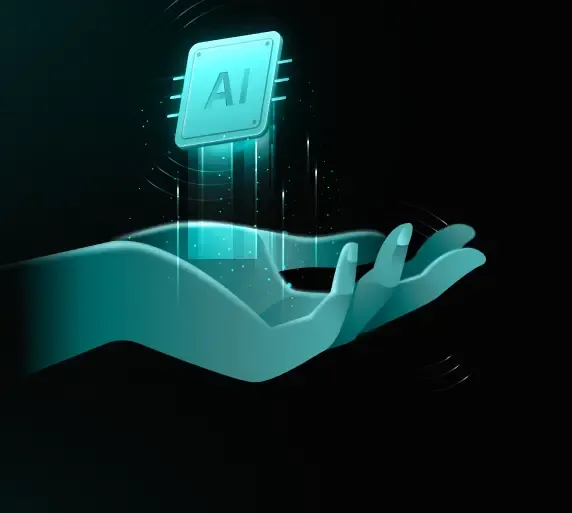
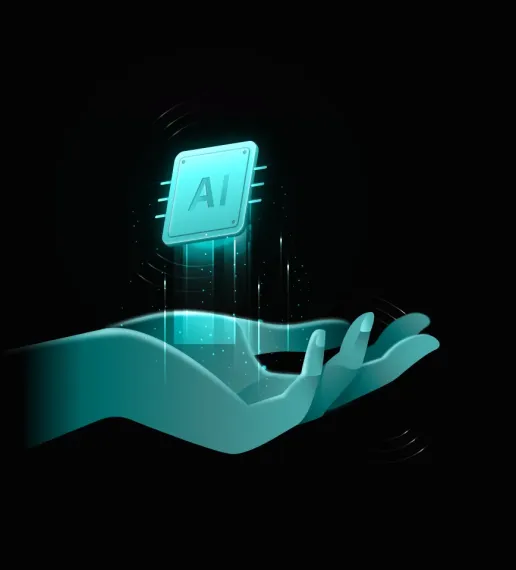
update

Changed region(s): [[0.031, 0.0, 0.8682, 0.8109], [0.0, 0.0, 0.155, 0.1559], [0.4031, 0.655, 0.4341, 0.6862]]

diff --git a/src/components/Token.jsx b/src/components/Token.jsx
@@ -9,13 +9,13 @@ const Token = () => {
             <img className='absolute z-0 left-0 top-[-55%]' src={ellipis1} alt="ellipis" />
             <img className='absolute z-0 right-0 top-[-20%]' src={ellipis2} alt="ellipis" />
             <img className='absolute z-0 top-[-10%] right-0' src={ellipis3} alt="ellipis" />
-            <div className="max-w-[1240px] relative z-[1] mx-auto px-3" id="token">
-                <h2 className='text-[#02CDCF] ff-recharge font-bold leading-[25px] sm:leading-[50px] text-center sm:text-[30px] text-[20px] md:text-[40px] pb-[25px] sm:pb-[47px]'>NexAI Token & utility</h2>
+            <div className="max-w-[1240px]  mx-auto px-3" id="token">
+                <h2 className='text-[#02CDCF] relative z-[1] ff-recharge font-bold leading-[25px] sm:leading-[50px] text-center sm:text-[30px] text-[20px] md:text-[40px] pb-[25px] sm:pb-[47px]'>NexAI Token & utility</h2>
                 <div className="flex flex-row flex-wrap justify-between -mx-3">
                     <div className="md:w-6/12 w-full flex items-center justify-center md:max-w-[571px] px-3">
-                        <img className='w-full relative z-0' data-aos="fade-right" src={hand} alt="hand" />
+                        <img className='w-full' data-aos="fade-right" src={hand} alt="hand" />
                     </div>
-                    <div className="md:w-6/12  w-full sm:max-w-[670px] px-3 h-[430px] flex justify-end scroll overflow-y-scroll mt-[63px]" data-aos="fade-left">
+                    <div className="md:w-6/12 relative z-[1] w-full sm:max-w-[670px] px-3 h-[430px] flex justify-end scroll overflow-y-scroll mt-[63px]" data-aos="fade-left">
                         <ol className="relative  after:absolute after:w-[10px] after:sm:min-h-[1430px] after:max-[550px]:min-h-[1430px] after:min-h-[1150px] after:min after:top-0 after:bottom-0 after:left-[-1.5%] after:sm:left-[-8%] overflow-visible after:rounded-[15px] after:z-[1] after:bg-[#02CDCF]">
                             <li className="mb-14 ms-4">
                                 <div className="absolute w-6 h-6 z-[2] bg-[#FCFCFC] rounded-full mt-[90px] sm:left-[-9.2%] -start-[13px] border border-white dark:border-gray-900 dark:bg-gray-700"></div>

diff --git a/src/components/AI.jsx b/src/components/AI.jsx
@@ -14,8 +14,9 @@ const AI = () => {
                             <p className='max-w-[564px] opacity-70 pt-2 text-[13px] sm:text-[16px] leading-[25px] pb-[20px] sm:pb-[40px] text-white font-poppins font-normal'>Nexai's software can be installed on all your smart devices, including smartphones, computers, smart TVs, and kitchen appliances. It acts as a centralized control hub, allowing you to manage and interact with all your devices seamlessly. Whether it's adjusting the temperature, turning on appliances, or even accessing files on your home computer from anywhere, Nexai empowers you with effortless control.</p>
                             <Commonbtn text="Learn More" />
                         </div>
-                        <div className="md:w-6/12 w-full px-3 max-md:pt-8">
-                            <img className='w-full max-md:rounded-full' data-aos="fade-left" src={ai} alt="ai" />
+                        <div className="md:w-6/12 w-full px-3 max-md:pt-8 relative">
+                            <div className="max-w-[468px] min-h-[463px] w-full rounded-full mix-blend-hue blur-3xl top-0 bottom-0 bg-[#02CDCF] absolute z-[3]"></div>
+                            <img className='w-full max-md:rounded-full relative z-[4] mix-blend-lighten' src={ai} alt="ai" />
                         </div>
                     </div>
                 </div>

diff --git a/src/components/Footer.jsx b/src/components/Footer.jsx
@@ -23,7 +23,7 @@ const Footer = () => {
                             </a>
                         </div>
                     </div>
-                    <div className="md:w-6/12 w-full px-3 max-w-[395px] pt-[40px] md:pt-[90px]">
+                    <div className="md:w-6/12 w-full px-3 max-w-[395px] pt-[40px] md:pt-[70px]">
                         <div className='flex flex-row flex-wrap -mx-3 justify-between'>
                             <div className='w-6/12 px-3 max-w-[145px]'>
                                 <p className='ff-recharge font-bold text-[16px] sm:text-[18px] leading-[21px] text-white'>Quick links</p>
